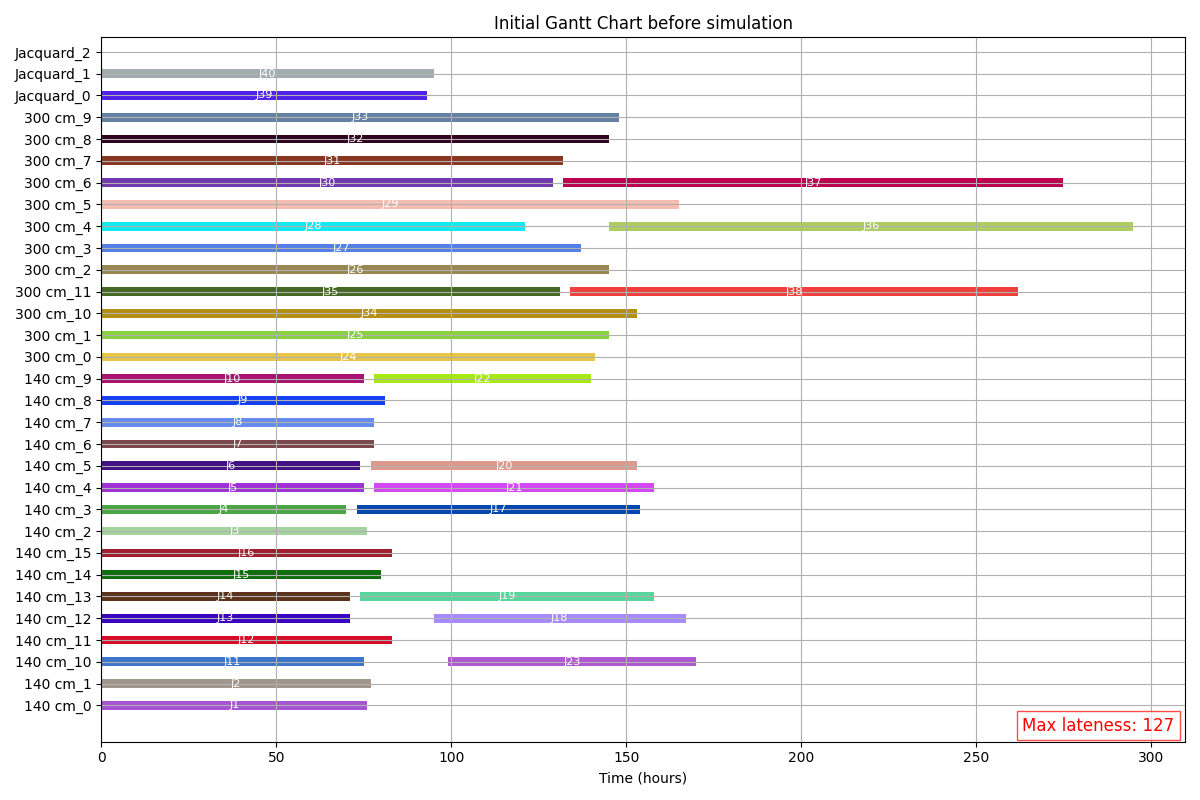
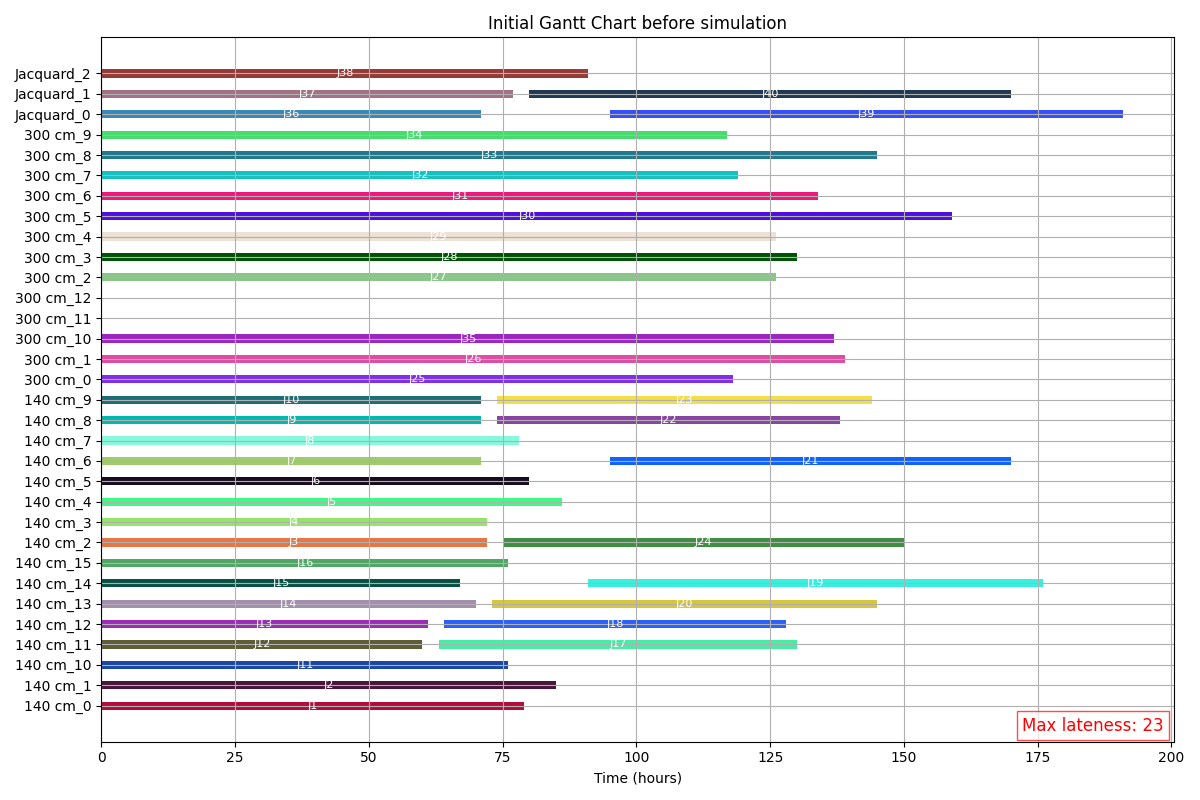
in the beningiging

diff --git a/runSim.py b/runSim.py
@@ -44,6 +44,15 @@ def simulate_over_time(self,total_hours=168, disruption_rates=(0.05, 0.05, 0.05)
     for machine, job_list in machine_assignments.items():
         initial_schedule[machine] = schedule_machine(job_list)
 
+    # Plot the initial schedule
+    max_late = calculate_max_lateness(initial_schedule, jobs)
+    plot_gantt_chart(
+        initial_schedule,
+        title="Initial Gantt Chart before simulation",
+        save_path="gantt_initial.png",
+        max_lateness=max_late
+    )
+
     for t in range(total_hours):
         # 1. Update job progress on each machine
         for machine, state in machine_states.items():
@@ -90,10 +99,8 @@ def simulate_over_time(self,total_hours=168, disruption_rates=(0.05, 0.05, 0.05)
             jobs, _ = apply_additional_disruptions(jobs, demand_rate=0, cancel_rate=1, breakdown_rate=0, machine_assignments=machine_states, reschedulable_jobs=[])
             disruption_occurred = True
         elif disruption_type == 'breakdown':
-            jobs, _ = apply_additional_disruptions(
-                jobs, demand_rate=0, cancel_rate=0, breakdown_rate=1,
-                machine_assignments=machine_states, reschedulable_jobs=[]
-            )
+            jobs, _ = apply_additional_disruptions(jobs, demand_rate=0, cancel_rate=0, breakdown_rate=1, machine_assignments=machine_states, reschedulable_jobs=[])
+            disruption_occurred = True
 
         # 3. If disruption occurred, reschedule not_started jobs
         if disruption_occurred:
@@ -106,6 +113,48 @@ def simulate_over_time(self,total_hours=168, disruption_rates=(0.05, 0.05, 0.05)
                 machine_states[machine]['queue'] = in_progress_or_done + new_assignments.get(machine, [])
                 state = machine_states[machine]
                 state['job_idx'] = len(in_progress_or_done)
+
+                        # Build a combined schedule for plotting
+            combined_schedule = {}
+            job_ids_set = {job.id for job in jobs}
+            for machine in machine_states:
+                # 1. Jobs already started or finished (with actual times)
+                actual_jobs = [
+                    (j.id, j.start_time, j.end_time if j.status == 'finished' else (j.start_time + j.processing_time))
+                    for j in machine_states[machine]['queue']
+                    if j.status != 'not_started' and j.start_time is not None and j.id in job_ids_set
+                ]
+                # Find the latest end time on this machine
+                # Find the last actual job (finished or in progress) and its changeover time
+                if actual_jobs:
+                    last_actual_job_id, _, last_actual_end = actual_jobs[-1]
+                    last_job_obj = next((j for j in jobs if j.id == last_actual_job_id), None)
+                    last_end = last_actual_end + (last_job_obj.changeover_time if last_job_obj else 0)
+                else:
+                    last_end = 0
+
+                planned_jobs = []
+                for tup in final_schedule.get(machine, []):
+                    job_id, start, end = tup
+                    if job_id in job_ids_set and not any(j[0] == job_id for j in actual_jobs):
+                        job_obj = next((j for j in jobs if j.id == job_id), None)
+                        changeover = job_obj.changeover_time if job_obj else 0
+                        # Always add changeover after the previous job (actual or planned), except before the very first job
+                        if actual_jobs or planned_jobs:
+                            last_end += changeover
+                        planned_start = max(start, last_end)
+                        planned_end = planned_start + (end - start)
+                        planned_jobs.append((job_id, planned_start, planned_end))
+                        last_end = planned_end
+                combined_schedule[machine] = actual_jobs + planned_jobs
+
+            max_late = calculate_max_lateness(combined_schedule, jobs)
+            plot_gantt_chart(
+                combined_schedule,
+                title=f"Gantt Chart after disruption at t={t}",
+                save_path=f"gantt_after_disruption_t{t}.png",
+                max_lateness=max_late
+            )
 
     # Calculate max lateness for this experiment
     combined_schedule = {}
